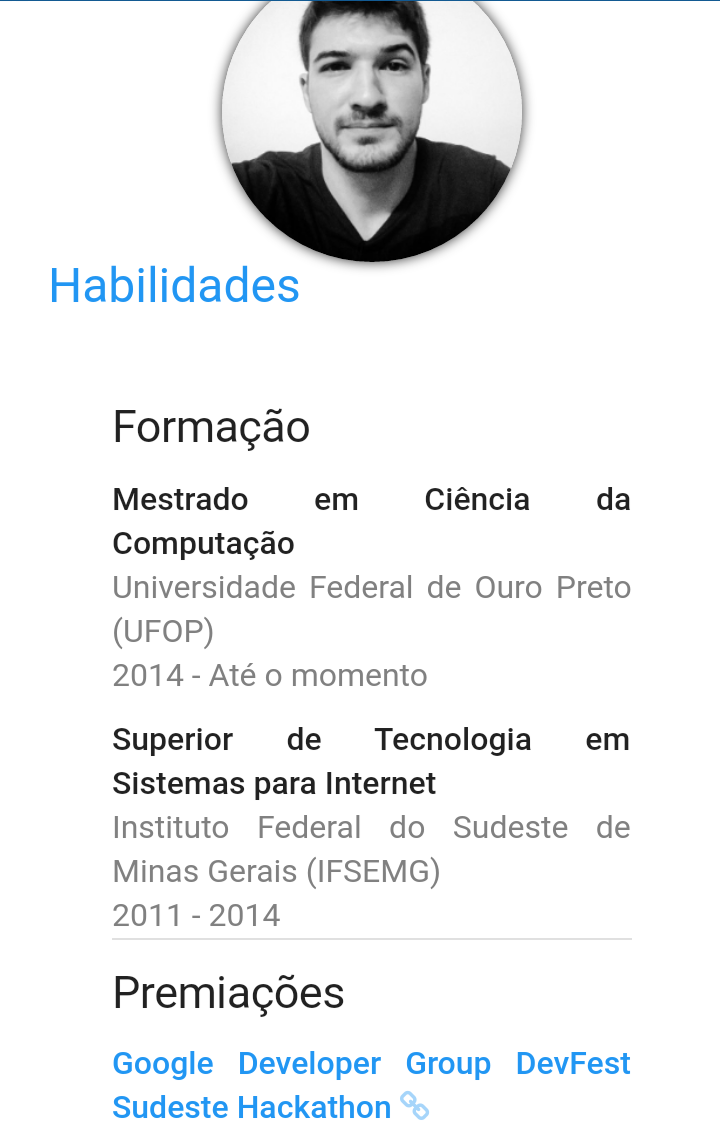
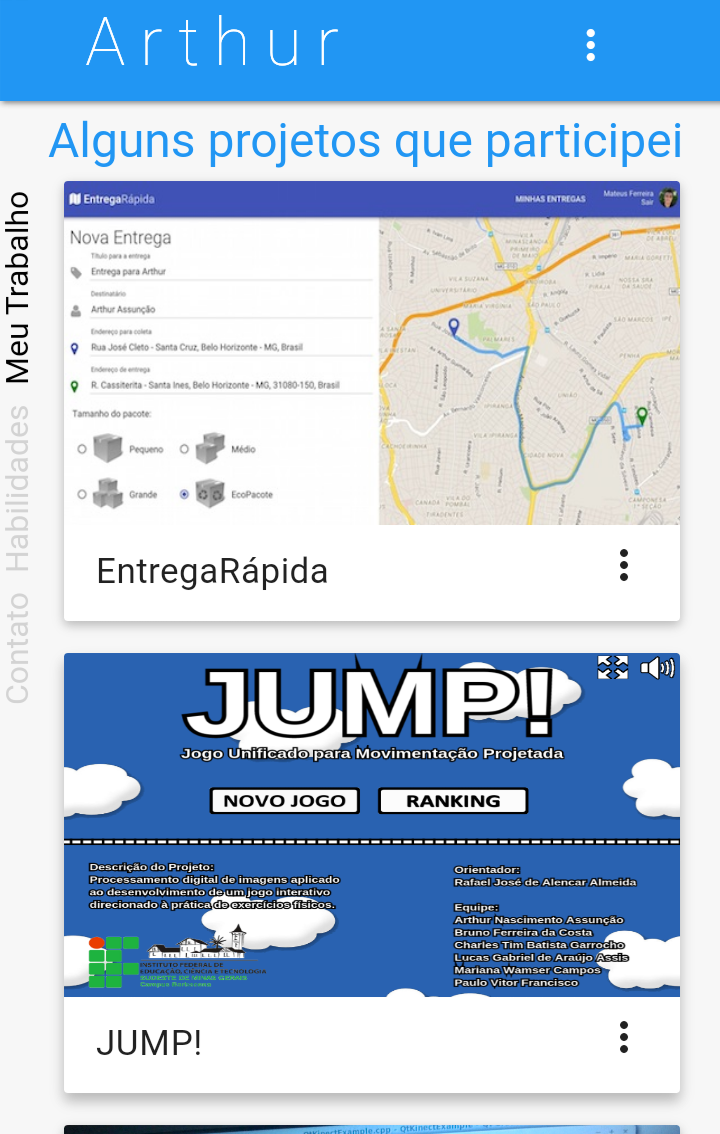
updated: imgs dos projetos

diff --git a/src/assets/js/scripts.min.js b/src/assets/js/scripts.min.js
@@ -280,7 +280,7 @@ app.controller("AppController", function($scope, $timeout, $mdSidenav, $log) {
     $scope.projects = {}, $scope.projects.data = [ {
         name: "EntregaRápida",
         imgurl: "assets/img/portfolio/entregarapida/thumbnail.jpeg",
-        imgs: "\n                assets/img/portfolio/entregarapida/0.jpeg, \n                assets/img/portfolio/entregarapida/1.jpeg, \n                assets/img/portfolio/entregarapida/2.jpeg, \n                assets/img/portfolio/entregarapida/3.jpeg, \n                assets/img/portfolio/entregarapida/4.jpeg, \n                assets/img/portfolio/entregarapida/5.jpeg, ",
+        imgs: "\n                assets/img/portfolio/entregarapida/0.jpeg, \n                assets/img/portfolio/entregarapida/1.jpeg, \n                assets/img/portfolio/entregarapida/2.jpeg, \n                assets/img/portfolio/entregarapida/3.jpeg, \n                assets/img/portfolio/entregarapida/4.jpeg, \n                assets/img/portfolio/entregarapida/5.jpeg",
         url: "http://github.com/ArthurAssuncao/EntregaRapida",
         urlname: "Visite o projeto",
         technologies: "HTML5/CSS3/SASS, JavaScript, AngularJS, AngularJS Material, Polymer, Google Maps API, Google Sign In, Google Places, NodeJS, MongoDB",
@@ -291,7 +291,7 @@ app.controller("AppController", function($scope, $timeout, $mdSidenav, $log) {
     }, {
         name: "ArthurAssuncao.com",
         imgurl: "assets/img/portfolio/arthurassuncao-com/thumbnail-0.png",
-        imgs: "\n                assets/img/portfolio/arthurassuncao-com/0.png, \n                assets/img/portfolio/arthurassuncao-com/1.png,\n                assets/img/portfolio/arthurassuncao-com/2.png,\n                assets/img/portfolio/arthurassuncao-com/3.png",
+        imgs: "\n                assets/img/portfolio/arthurassuncao-com/0.png, \n                assets/img/portfolio/arthurassuncao-com/1.png,\n                assets/img/portfolio/arthurassuncao-com/2.png,\n                assets/img/portfolio/arthurassuncao-com/3.png,\n                assets/img/portfolio/arthurassuncao-com/4.png",
         url: "http://ArthurAssuncao.com/",
         urlname: "Visite ArthurAssuncao.com",
         technologies: "HTML5/CSS3/SASS, JavaScript/jQuery, AngularJS, AngularJS Material, WOW.js, Jade, Grunt",
@@ -301,8 +301,8 @@ app.controller("AppController", function($scope, $timeout, $mdSidenav, $log) {
         description: "<p>Meu site pessoal onde divulgo meu currículo, meus projetos, etc e o mantenho atualizado com o que há de mais interessante e recente em termos de tecnologias web.</p>\n                <p><strong>História</strong></p>\n                <p>Em 2012 o site não tinha o código fonte aberto e utilizava PHP e Bootstrap 2.x.</p>\n                <p>Em 2013 o site teve seu código fonte aberto e hospedado no Github.</p>\n                <p>Em 2014 o site teve o Bootstrap atualizado para a versão 3.x.</p>\n                <p>Em 2015 o site passou por várias reformulações, primeiro foi o uso do MaterializeCSS, em seguida foi removido o PHP e deixado apenas estático. Uma versão em Material Design Lite foi iniciada, porém descontinuada devido a falta de recursos desse framework da Google. Nesta versão mais recente de 2015, o site é feito utilizando AngularJS e AngularJS Material, que oferecem muitos recursos com grande produtividade, além de um bom desempenho, mesmo neste último quesito sendo inferior ao ReactJS ou AngularJS 2.0.</p>\n                <p>Além de todas estas mudanças, em 2015, comecei a utilizar no site o SASS para melhorar a códificação CSS, Jade pra modularizar melhor os HTML e, o mais interessante de todos, o Grunt como automatizador. O ganho em desempenho e produtividade que um automatizador gera é gigantesco.\n                <p>Em 2016 estou analisando, a principio, a possibilidade de substituir as directivas do AngularJS por componentes ReactJS, o que aumentaria muito o desempenho do site.</p>"
     }, {
         name: "JUMP!",
-        imgurl: "http://fakeimg.pl/300x200/",
-        imgs: "http://fakeimg.pl/300x200/",
+        imgurl: "assets/img/portfolio/jump/thumbnail.png",
+        imgs: "\n                assets/img/portfolio/jump/0.png, \n                assets/img/portfolio/jump/1.png, \n                assets/img/portfolio/jump/2.png",
         url: "https://github.com/arthurassuncao/jump",
         urlname: "Visite o projeto",
         technologies: "Python, Node.js, HTML/CSS3, JavaScript/Phaser, Git",

diff --git a/src/assets/js/controllers.js b/src/assets/js/controllers.js
@@ -149,7 +149,7 @@ app.controller('ProjectsController', function($scope) {
                 assets/img/portfolio/entregarapida/2.jpeg, 
                 assets/img/portfolio/entregarapida/3.jpeg, 
                 assets/img/portfolio/entregarapida/4.jpeg, 
-                assets/img/portfolio/entregarapida/5.jpeg, ",
+                assets/img/portfolio/entregarapida/5.jpeg",
             url: "http://github.com/ArthurAssuncao/EntregaRapida",
             urlname: "Visite o projeto",
             technologies: "HTML5/CSS3/SASS, JavaScript, AngularJS, AngularJS Material, Polymer, Google Maps API, Google Sign In, Google Places, NodeJS, MongoDB",
@@ -168,7 +168,8 @@ app.controller('ProjectsController', function($scope) {
                 assets/img/portfolio/arthurassuncao-com/0.png, 
                 assets/img/portfolio/arthurassuncao-com/1.png,
                 assets/img/portfolio/arthurassuncao-com/2.png,
-                assets/img/portfolio/arthurassuncao-com/3.png",
+                assets/img/portfolio/arthurassuncao-com/3.png,
+                assets/img/portfolio/arthurassuncao-com/4.png",
             url: "http://ArthurAssuncao.com/",
             urlname: "Visite ArthurAssuncao.com",
             technologies: "HTML5/CSS3/SASS, JavaScript/jQuery, AngularJS, AngularJS Material, WOW.js, Jade, Grunt",
@@ -186,8 +187,11 @@ app.controller('ProjectsController', function($scope) {
         },
         {
             name: "JUMP!",
-            imgurl: "http://fakeimg.pl/300x200/",
-            imgs: "http://fakeimg.pl/300x200/",
+            imgurl: "assets/img/portfolio/jump/thumbnail.png",
+            imgs: "
+                assets/img/portfolio/jump/0.png, 
+                assets/img/portfolio/jump/1.png, 
+                assets/img/portfolio/jump/2.png",
             url: "https://github.com/arthurassuncao/jump",
             urlname: "Visite o projeto",
             technologies: "Python, Node.js, HTML/CSS3, JavaScript/Phaser, Git",

diff --git a/Gruntfile.js b/Gruntfile.js
@@ -245,7 +245,7 @@ module.exports = function(grunt) {
         files: [
           { //img
             expand: true, 
-            src: ['<%= project.src_img %>/*.*'], 
+            src: ['<%= project.src_img %>/**.*'], 
             dest: '<%= project.dist_assets_img %>/', 
             filter: 'isFile',
             flatten: true
@@ -256,7 +256,7 @@ module.exports = function(grunt) {
         files: [
           { //img
             expand: true, 
-            src: ['<%= project.src_files %>/*.*'], 
+            src: ['<%= project.src_files %>/**.*'], 
             dest: '<%= project.dist_assets_files %>/', 
             filter: 'isFile',
             flatten: true
@@ -386,5 +386,5 @@ module.exports = function(grunt) {
 
   // Tasks
   grunt.registerTask('dev', ['newer:copy:dev_css_not_scss', 'newer:sass', 'newer:jade', 'newer:uglify' ,'concurrent:tasks']);
-  grunt.registerTask('default', ['mkdir', 'newer:copy:dev_css_not_scss', 'newer:sass', 'newer:postcss', 'newer:cssmin', 'newer:modernizr', 'newer:uglify:dev_third_party', 'newer:uglify:dev_third_party_angular', 'newer:uglify:dev', 'newer:copy']);
+  grunt.registerTask('default', ['mkdir', 'newer:copy:dev_css_not_scss', 'newer:sass', 'newer:jade', 'newer:postcss', 'newer:cssmin', 'newer:modernizr', 'newer:uglify:dev_third_party', 'newer:uglify:dev_third_party_angular', 'newer:uglify:dev', 'newer:copy']);
 };
